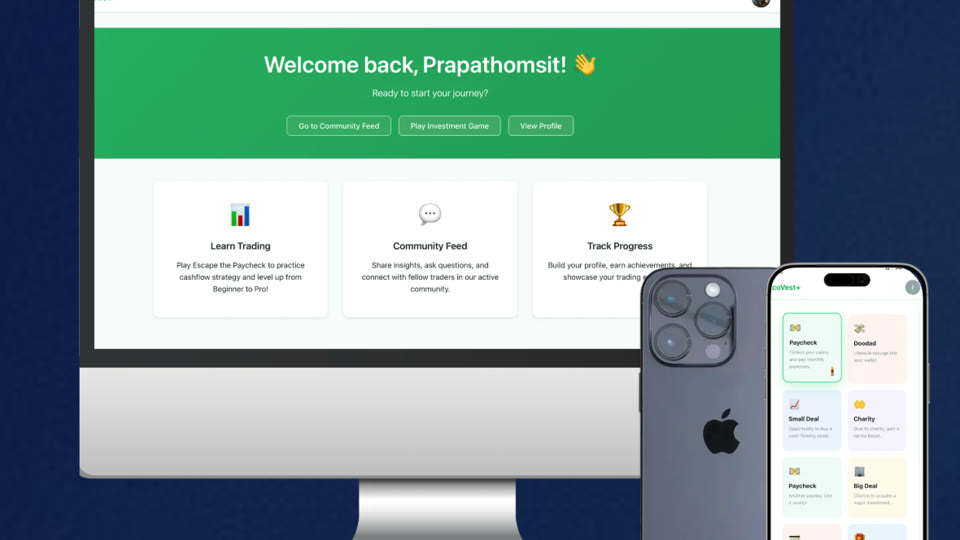
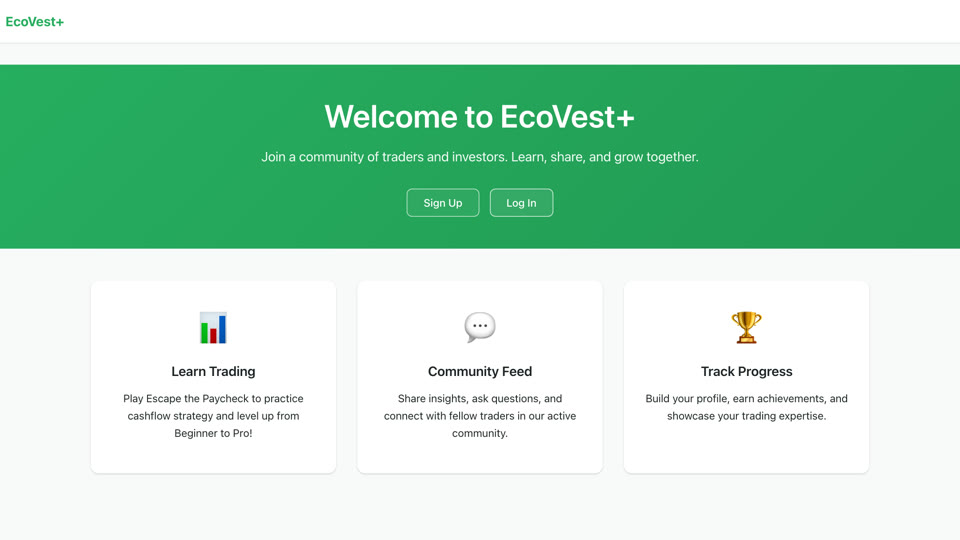
ECOVEST+: real screenshot from the site

diff --git a/index.html b/index.html
@@ -1517,7 +1517,7 @@ console.<span class="f">log</span>(<span class="s">\`⏱ performance_glitch_u
     ['assets/projects/dream-frogs-hunt-cover.jpg', 'Dream Frogs Hunt'],
     ['assets/projects/konklang-flow.jpg', 'KonKlang · UniHack'],
     ['assets/projects/jobsy-story.jpg', 'JOBSY · JUMP Thailand'],
-    ['assets/projects/ecovest-cover.jpg', 'ECOVEST+ · KMITL'],
+    ['assets/projects/ecovest-mockup.jpg', 'ECOVEST+ · KMITL'],
   ];
   const MARQUEE_WORDS = ['Playwright', 'NSC 2025', 'TypeScript', '80/80 tests', 'GitHub Actions', 'Unity · C#', 'Negative testing', 'Biztania finalist', 'Page Object Model', 'Top 20 / 300+'];
   const fill = (el, html) => { el.innerHTML = html + html; };   // doubled for a seamless loop
